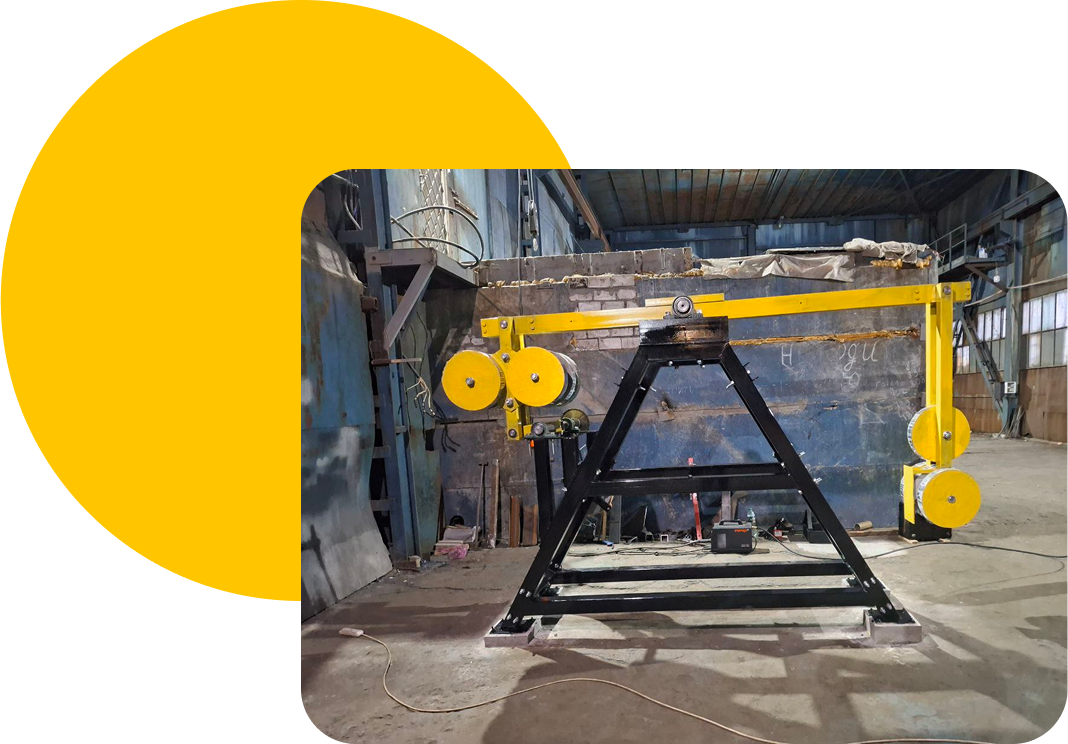
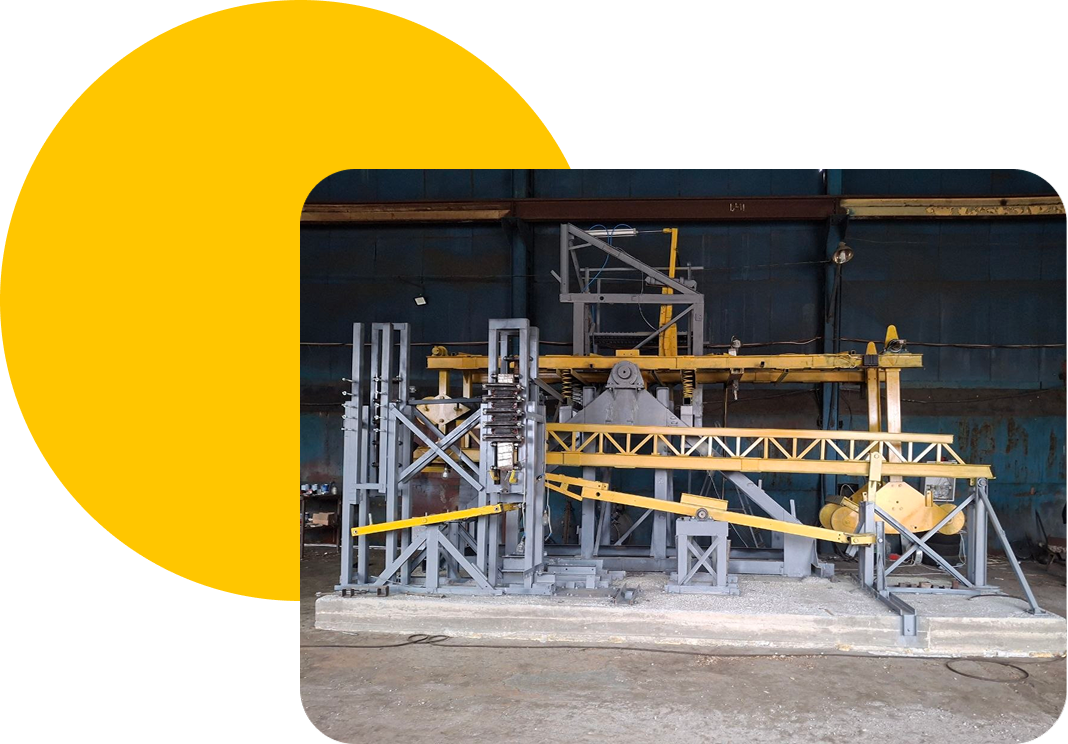
address and photos changes

diff --git a/script.js b/script.js
@@ -32,7 +32,7 @@ const translations = {
     phone1: "0995535030",
     phone2: "0675241200",
     company_info: "КВТ ГРУП ТОВ, ЄДРПОУ/ДРФО 45149954 МФО 305299,<br>№UA583052990000026007050590339",
-    address: "м. Дніпро, вул. Академіка Белелюбского 70 +38 067 524 12 00",
+    address: "м. Дніпро, вул. Мандриківська 44а +38 067 524 12 00",
 
     main_title: "Маятник<br>Дугінця",
     description1: "Запатентована машина перетворює<br>коливання маятника в електроенергію.",
@@ -95,7 +95,7 @@ const translations = {
     money_making_description: "УЯВІТЬ, як Маятник Дугінця буде не тільки економити вам від 3 до 10 гривень на одному кіловаті, а ще й заробляти вам гроші за допомогою майнінгу біткоіна. Вам не потрібно розумітись на майнінгу. Ми встановимо все необхідне обладнання та підключимо. Коли електроенергія ,видобута за допомогою маятника, буде не потрібна на вашому виробництві після закінчення робочого дня або на потреби дому, вона буде використовуватись для вашого заробітку на майнінгу криптовалют до початку наступного робочого дня. І так 24 години на добу. Зароблені гроші будуть виводитись на вашу банківську карту. Щоб все було так просто для вас, нам довелося створити свій науково дослідницький інститут з виробничим цехом ,інвестувати більше $200000 та 6 років наполегливої праці, провести багато дуже дорогих випробувань, витратити купу нервів, знайти потрібних фахівців, яких майже немає, навчати своїх працівників і навчатись самим , вірити в успіх навіть тоді, коли вже майже не було надії на фінансування та на знайомство з потрібними фахівцями. В цей продукт вкладені віра, гроші, праця, роки життя від першої думки у 2011 році до виготовлення продукту у 2025 році. Тепер ви розумієте весь пройдений шлях. Дякуємо.",
 
     footer_company_info: "КВТ ГРУП ТОВ, ЄДРПОУ/ДРФО 45149954 МФО 305299,<br>№ UA583052990000026007050590339",
-    footer_address: "м. Дніпро, вул. Академіка Белелюбского 70 <br>+38 067 524 12 00"
+    footer_address: "м. Дніпро, вул. Мандриківська 44а <br>+38 067 524 12 00"
   },
 
  English: {
@@ -103,7 +103,7 @@ const translations = {
     phone1: "0995535030",
     phone2: "0675241200",
     company_info: "KVT GROUP LLC, EDRPOU/DRFO 45149954 MFO 305299,<br>№UA583052990000026007050590339",
-    address: "Dnipro, Akademika Belelubskogo St. 70 +38 067 524 12 00",
+    address: "Dnipro, Mandrykivska St. 44a +38 067 524 12 00",
 
     main_title: "Duginets<br>Pendulum",
     description1: "A patented machine converts<br>pendulum oscillations into electricity.",
@@ -178,7 +178,7 @@ const translations = {
     money_making_description: "IMAGINE how the Duginets Pendulum will not only save you from 3 to 10 hryvnias per kilowatt, but also earn you money through Bitcoin mining. You don't need to understand mining. We will install all the necessary equipment and connect it. When the electricity extracted with the help of the pendulum is not needed at your production after the end of the working day or for household needs, it will be used for your earnings on cryptocurrency mining until the start of the next working day. And so 24 hours a day. Earned money will be withdrawn to your bank card. To make everything so simple for you, we had to create our own research institute with a production workshop, invest more than $200,000 and 6 years of hard work, conduct many very expensive tests, spend a lot of nerves, find the right specialists who are almost non-existent, train our employees and learn ourselves, believe in success even when there was almost no hope for funding and for meeting the right specialists. This product contains faith, money, labor, years of life from the first thought in 2011 to the manufacture of the product in 2025. Now you understand the whole path traveled. Thank you.",
 
     footer_company_info: "KVT GROUP LLC, EDRPOU/DRFO 45149954 MFO 305299,<br>№ UA583052990000026007050590339",
-    footer_address: "Dnipro, Akademika Belelubskogo St. 70 <br>+38 067 524 12 00"
+    footer_address: "Dnipro, Mandrykivska St. 44a <br>+38 067 524 12 00"
   }
 };
 

diff --git a/index.html b/index.html
@@ -41,7 +41,7 @@
                         <li class="header-nav-list-second__item">
                             <p class="header-nav-list-second__paragraph-second" contenteditable="true"
                                 data-lang="address">
-                                м. Дніпро, вул. Академіка Белелюбского 70 +38 067 524 12 00</p>
+                                м. Дніпро, вул. Мандриківська 44а +38 067 524 12 00</p>
                         </li>
                     </ul>
                 </div>
@@ -295,7 +295,7 @@
                     </li>
                     <li class="footer-list__item">
                         <p class="footer-list__paragraph-second" contenteditable="true" data-lang="footer_address">
-                            м. Дніпро, вул. Академіка Белелюбского 70 <br> +38 067 524 12 00
+                            м. Дніпро, вул. Мандриківська 44а <br> +38 067 524 12 00
                         </p>
                     </li>
                 </ul>

diff --git a/style.css b/style.css
@@ -216,6 +216,7 @@ header {
 
 .duginets-pendulum {
   background-image: url("src/img/png/orange-bg.png");
+    background-size: cover;
   background-repeat: no-repeat;
   height: 937px;
 }
@@ -230,8 +231,10 @@ header {
 }
 
 .video-section {
-  background-image: url("src/img/png/photo-duginets-pendulum.png");
+  background-image: url("src/img/png/photo-duginets-pendulum.jpg");
+  /* background-image: url("src/img/png/photo-duginets-pendulum-old.png"); */
   background-repeat: no-repeat;
+  background-size: cover;
   height: 1200px;
   display: flex;
   align-items: center;
@@ -331,7 +334,6 @@ header {
   font-weight: 400;
   color: #000000;
   padding-top: 22px;
-  margin-left: 89px;
 }
 .modal {
   display: none;
